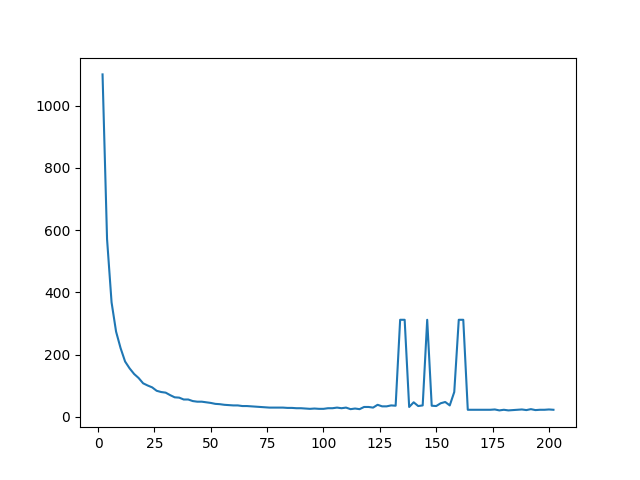
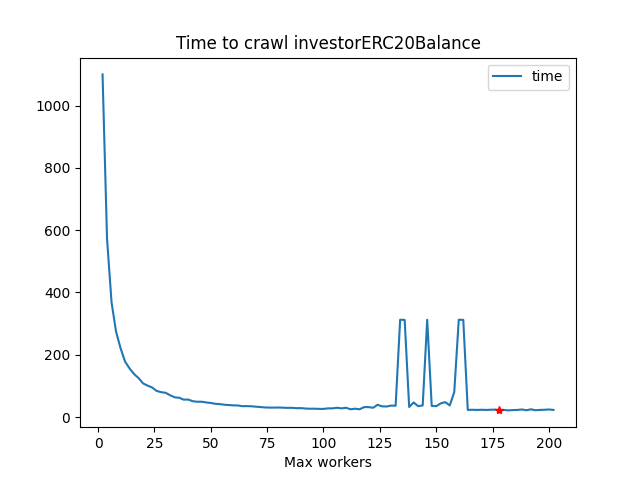
refactor: All the document

diff --git a/craw/runAll.py b/craw/runAll.py
@@ -3,20 +3,27 @@ import os
 import concurrent.futures
 import time
 
-# coingecko = ["coinInfo.py", "coinPrice.py"]
-coingecko = ["coinInfo.py"]
-alchemy = ["investorCoinBalance.py"]
-etherscan = ["investorTXs.py"]
-normal = ["investorTotalAsset.py"]
+from coinInfo import coinDataHandler
+from coinPrice import coinPriceMinutelyHandler, coinPriceHandler
+from coinSumInvestment import UpdateCoinSumInvest
+from investorCoinBalance import updateInvestorERC20Balances,updateInvestorETHBalances
+from investorTotalAsset import investorTotalAssetSnapshot
+from investorTXs import updateInvestorTXs2
 
-zipAll = ["coinInfo.py", "investorCoinBalance.py", "investorTXs.py", "investorTotalAsset.py"]
+# coingecko = [coinDataHandler, coinPriceMinutelyHandler]
+coingecko = [coinPriceMinutelyHandler]
+alchemy = [updateInvestorERC20Balances]
+etherscan = [updateInvestorTXs2, updateInvestorETHBalances]
+normal = [investorTotalAssetSnapshot, UpdateCoinSumInvest]
 
+zipAll = coingecko + alchemy + etherscan + normal
 
 fileName = os.path.basename(__file__)
 start = time.time()
-subprocess.run(['py', 'coinPrice.py'])
+coinDataHandler()
+
 with concurrent.futures.ThreadPoolExecutor() as executor:
     for pyFile in zipAll:
-        executor.submit(subprocess.run, ['py',pyFile])
+        executor.submit(pyFile)
 end = time.time()
 print(int(end - start), f'sec to process {fileName}')

diff --git a/craw/investorTXs.py b/craw/investorTXs.py
@@ -44,7 +44,7 @@ def getInvestorTXs(startBlock, curBlock, ets_key, investorAddress):
 
         return {'status' : '-1'}
     # print(newTXs.json())
-    if newTXs.json()['status'] == '1' or newTXs.status_code == 200:
+    if newTXs.json().get('status',-1) == '1' or newTXs.status_code == 200:
         newTXs = newTXs.json()
         newTXs['investorAddress'] = investorAddress
     else:
@@ -156,17 +156,3 @@ def updateInvestorTXs2(maxWorkers=14):
     print(f'Process success transaction of {len(investorAddresses)} investor')
     return True
 
-
-# fileName = os.path.basename(__file__)
-# start = time.time()
-# updateInvestorTXs2()
-# end = time.time()
-# print(int(end - start), f'sec to process {fileName}')
-# isFuturesWork()
-
-# investorDocs.delete_many(
-#     {'TXs.0' : {'$exists' : 0}}
-# )
-# for investorDoc in investorDocs.find({'TXs.0' : {'$exists' : 0}}):
-#     print(investorDoc['_id'])
-#     print(investorDoc['TXs'])

diff --git a/craw/coinInfo.py b/craw/coinInfo.py
@@ -78,8 +78,7 @@ def getCoinData(id):
         'sparkline' : False
 
     }
-    APIURL = f'https://api.coingecko.com/api/v3/coins/{id}'
-
+    COIN_ID_API_URL = f'https://api.coingecko.com/api/v3/coins/{id}'
 
     statusCode = -1
     while statusCode != 200:
@@ -87,7 +86,7 @@ def getCoinData(id):
         time.sleep( (statusCode != -1) * 70)
 
         print(f'Crawl data for {id}')
-        response = requests.get(APIURL, params=parameter)
+        response = requests.get(COIN_ID_API_URL, params=parameter)
 
         statusCode = response.status_code
 
@@ -124,17 +123,3 @@ def coinDataHandler():
 
         print(f'Get data success of {idCoin}')
         time.sleep(2)
-
-
-  
-
-
-
-fileName = os.path.basename(__file__)
-start = time.time()
-coinDataHandler()
-end = time.time()
-print(int(end - start), f'sec to process {fileName}')
-
-
-

diff --git a/max-worker-statistic/viewGraph.py b/max-worker-statistic/viewGraph.py
@@ -41,12 +41,28 @@ for fileName in data:
 
     xs = []
     ys = []
+
+    xMin = 999
+    yMin = 999
     for maxWorkers,times in data[fileName].items():
         xs.append(int(maxWorkers))
-        ys.append(int(mean(times)))
-        print(times, int(maxWorkers), int(mean(times)))
-    
-    ax1.plot(xs, ys,label = 'ratio')
+
+        meanTimes = mean(times)
+        ys.append(meanTimes)
+
+        if yMin > meanTimes:
+            yMin = meanTimes
+            xMin = int(maxWorkers)
+
+
+    print(f'Min time to crawl {fileName} is {yMin}, at Max Workers = {xMin}')
+
+
+    ax1.plot(xs, ys)
+    ax1.plot(xMin,yMin,'r*')
+    plt.title(f'Time to crawl {fileName}')
+    plt.legend(['time'])
+    plt.xlabel('Max workers')
     plt.savefig(fileName)
     plt.show()
     

diff --git a/craw/investorCoinBalance.py b/craw/investorCoinBalance.py
@@ -68,6 +68,8 @@ def updateInvestorETHBalances(maxWorkers = 10):
             )
             for investorAddress, ets_key in zip(investorAddresses, ets_keys)
         ]
+
+    
     multiETHBalanceResults = [ethBalanceResults.result() 
                                for ethBalanceResults in concurrent.futures.as_completed(multiETHBalanceResults)]
 
@@ -244,10 +246,5 @@ def updateInvestorERC20Balances(maxWorkers = 50):
     return True
 
 
-# fileName = os.path.basename(__file__)
-# start = time.time()
-# updateInvestorERC20Balances()
-# print(updateInvestorETHBalances())
-# end = time.time()
-# print(int(end - start), f'sec to process {fileName}')
+
 

diff --git a/craw/mongoDB_init.py b/craw/mongoDB_init.py
@@ -13,4 +13,13 @@ client = pymongo.MongoClient(connect_string)
 client = client['TRACKINGINVESTMENT_CRAWL']
 
 
+main_mongodb_password = os.environ['main_mongodb_password']
+main_mongodb_password = quote_plus(main_mongodb_password)
+
+main_connect_string = f'mongodb+srv://hdttuan:{main_mongodb_password}@trackinginvestmentmain.4hjg8pg.mongodb.net/TRACKINGINVESTMENT_MAIN?retryWrites=true&w=majority'
+mainClient = pymongo.MongoClient(main_connect_string)
+mainClient = mainClient['TRACKINGINVESTMENT_MAIN']
+
+
+
 

diff --git a/craw/investorTotalAsset.py b/craw/investorTotalAsset.py
@@ -79,18 +79,3 @@ def updateSharkStatus():
             {'$set' : {'is_shark' : sharkStatus}}
         )
 
-
-
-
-# investorTotalAssetSnapshot()
-# fileName = os.path.basename(__file__)
-# start = time.time()
-# investorTotalAssetSnapshot()
-# # investorTotalAssetSnapshot()
-# updateSharkStatus()
-# end = time.time()
-# print(int(end - start), f'sec to process {fileName}')
-
-
-# 0x25431341a5800759268a6ac1d3cd91c029d7d9ca 933496.7882288886
-# 0x5f397B62502e255f68382791947D54C4B2d37F09

diff --git a/craw/coinPrice.py b/craw/coinPrice.py
@@ -157,13 +157,6 @@ def coinPriceMinutelyHandler():
         time.sleep(2)
 
 
-fileName = os.path.basename(__file__)
-start = time.time()
-coinPriceMinutelyHandler()
-# coinPriceHandler()
-end = time.time()
-print(int(end - start), f'sec to process {fileName}')
-
 # for unix,price in getCoinPriceByRange('bitcoin','1669255913','1669341913'):
 #     ts = int(unix/1000)
 #     print(datetime.fromtimestamp(ts).strftime('%d-%m-%Y %H:%M:%S'),price)

diff --git a/craw/statisticMaxWorker.py b/craw/statisticMaxWorker.py
@@ -5,13 +5,13 @@ import time
 from datetime import date, timedelta, datetime
 
 keys = [
-    'investorTXs',
     'investorETHBalance',
+    'investorTXs',
     # 'investorERC20Balance'
 ]
 functions = [
-    updateInvestorTXs2,
     updateInvestorETHBalances,
+    updateInvestorTXs2,
     # updateInvestorERC20Balances
 ]
 

diff --git a/craw/test.py b/craw/test.py
@@ -1,6 +1,7 @@
+from mongoDB_init import mainClient
 
-from investorCoinBalance import updateInvestorERC20Balances
+userDocs = mainClient['tokens']
 
-a = [updateInvestorERC20Balances]
 
-print(a[0]())
+for userDoc in userDocs.find():
+    print(userDoc['_id'])

diff --git a/craw/coinSumInvestment.py b/craw/coinSumInvestment.py
@@ -37,4 +37,3 @@ def UpdateCoinSumInvest():
         if updateResult.modified_count == 1:
             print(f'Update sum invest of {symbol} is {sumInvest}')
 
-UpdateCoinSumInvest()
